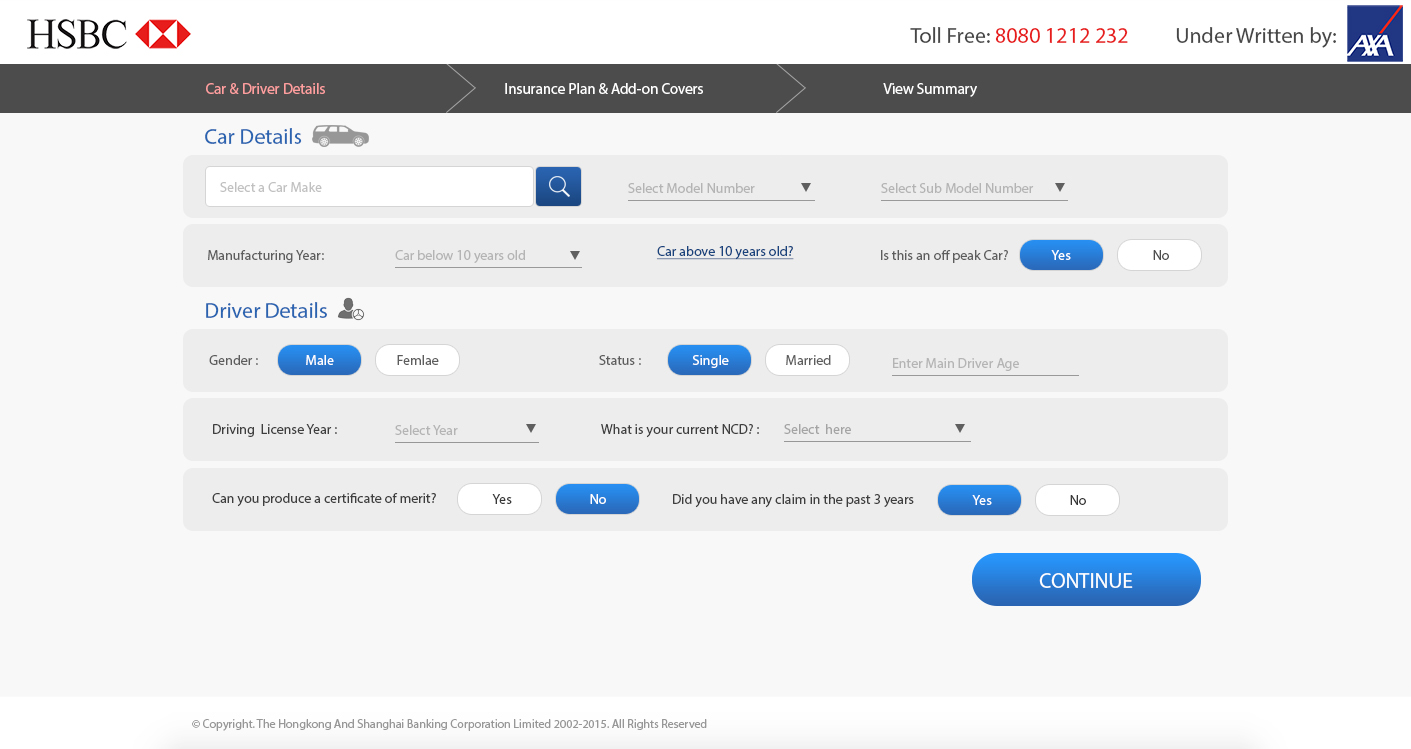
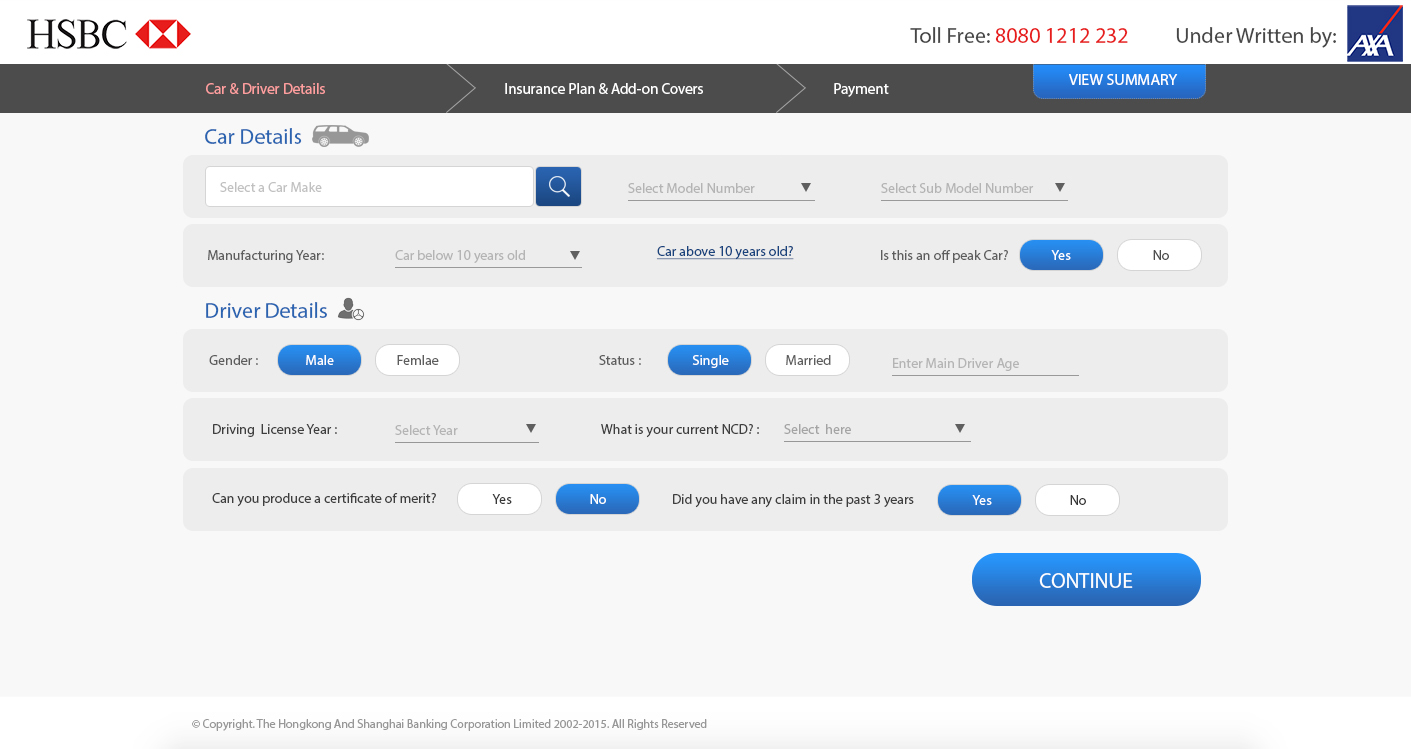
Final Changes

Changed region(s): [[0.7172, 0.0614, 0.8731, 0.1535], [0.5925, 0.0921, 0.686, 0.1228]]

diff --git a/index-4.html b/index-4.html
@@ -1,0 +1,30 @@
+<!DOCTYPE html>
+<html>
+<head>
+	<title>HSBC AXA Motor</title>
+</head>
+
+<style type="text/css">
+	body{
+		margin: 0;
+		padding: 0
+	}
+
+
+	#hsbc{
+		background-image: url("screen_04.jpg");
+		background-repeat: no-repeat;
+		width: 100%;
+		height: 760px;
+		background-position: top center;
+
+	}
+</style>
+
+<body>
+
+<div id="hsbc"></div>
+
+
+</body>
+</html>

diff --git a/README.md b/README.md
@@ -1,2 +1,1 @@
-# axachandra.github.io
-h
+# hsbcddd
